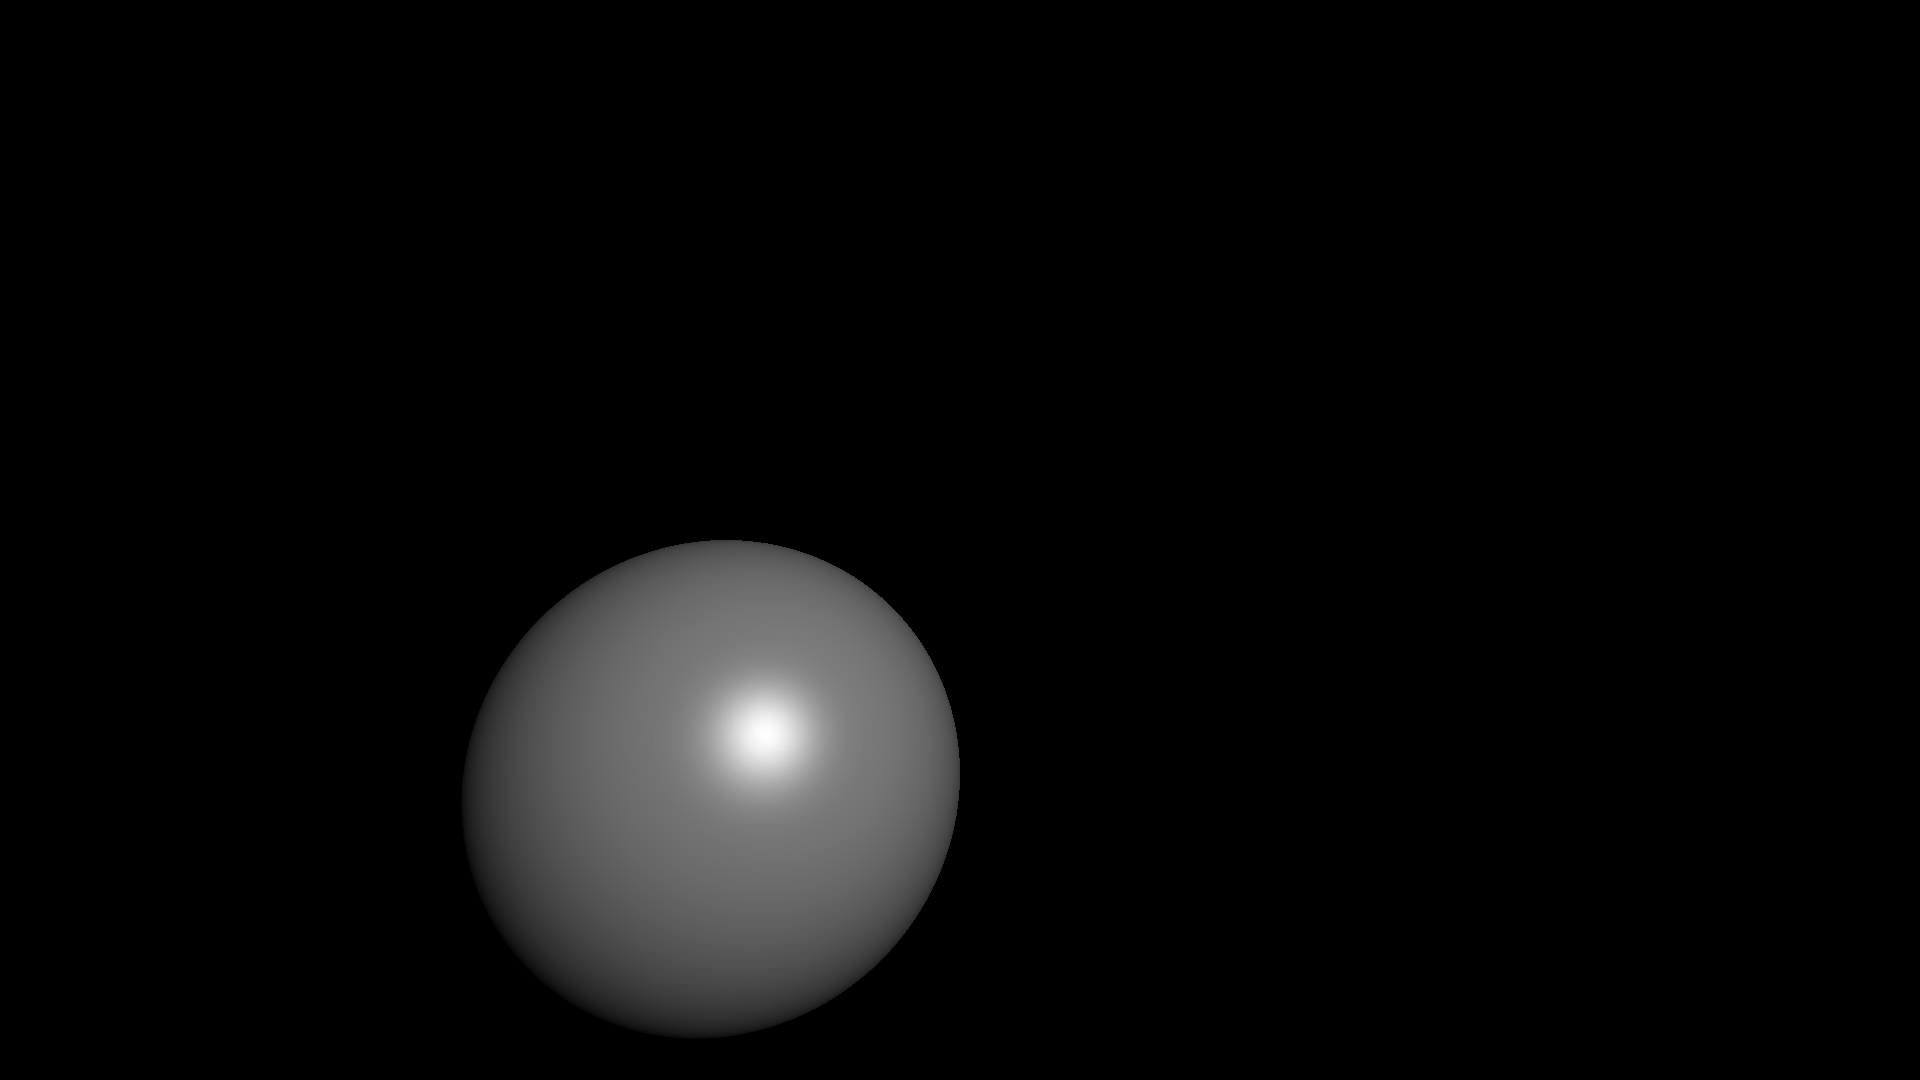
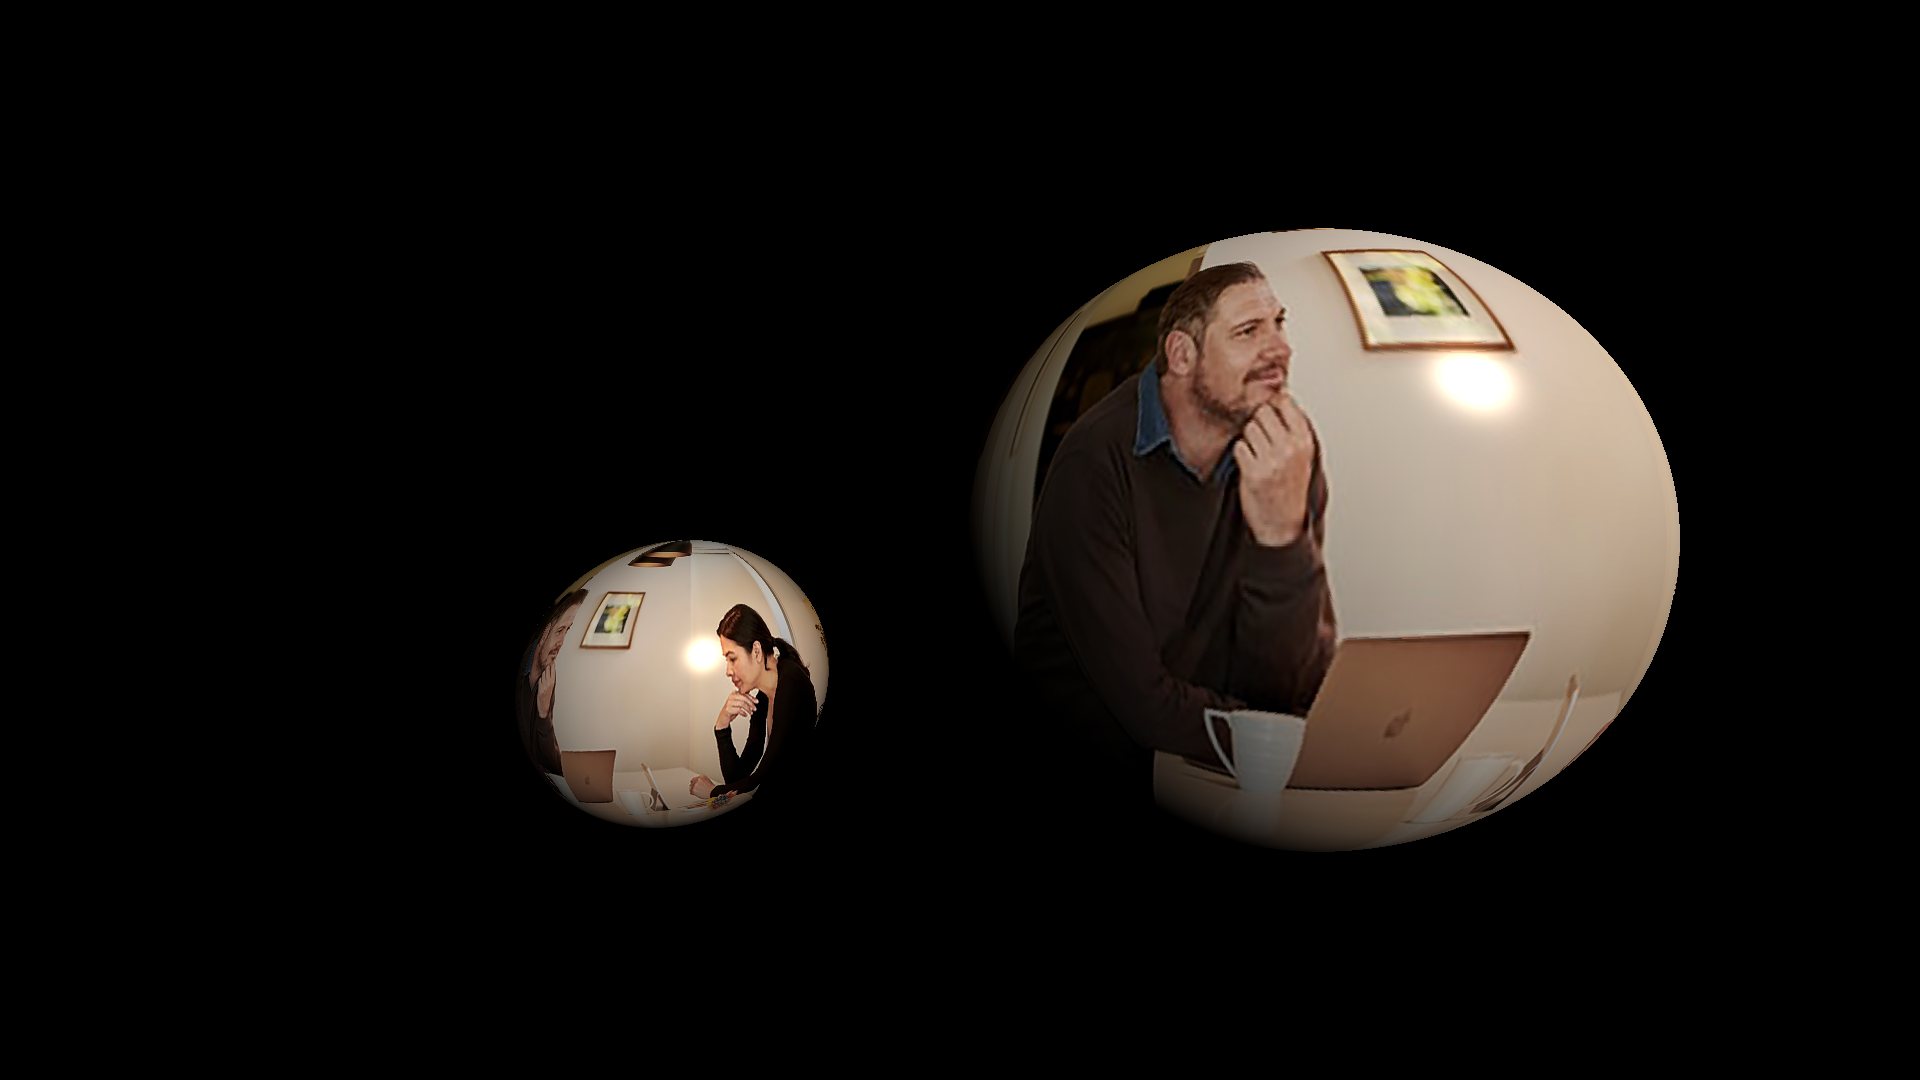
Fix Plane intersection, implement specular highlights and fix uv coordinate calculation

Changed region(s): [[0.5, 0.2139, 0.875, 0.7944], [0.2188, 0.4889, 0.5, 0.9778]]

diff --git a/Backend/src/Scene.cs b/Backend/src/Scene.cs
@@ -15,10 +15,17 @@ namespace LEA_2021
 {
     using Vec3 = Vector3;
     using Point3 = Vector3;
+    using Point2 = Vector2;
 
 
     public class Scene : INotifyPropertyChanged
     {
+        #region Fields
+
+        Bitmap background = new Bitmap(Bitmap.FromFile("/home/jonas/RiderProjects/LEA_2021/Backend/scenes/bg.png"));
+
+        #endregion
+
         #region Properties
 
         public string Name { get; set; }
@@ -136,7 +143,7 @@ namespace LEA_2021
                                                         obj["Properties"]["Orientation"][2]
                                                        ),
                                                (int) obj["Properties"]["Width"],
-                                               (int) obj["Properties"]["Height"]
+                                               (int) obj["Properties"]["Length"]
                                               );
 
                         break;
@@ -240,7 +247,7 @@ namespace LEA_2021
 
         private Vec3 Refract(Vec3 direction, Vec3 surfaceNormal)
         {
-            return Vec3.Zero;
+            throw new NotImplementedException();
         }
 
 
@@ -254,7 +261,7 @@ namespace LEA_2021
             //
             // lightBeam.Brightness *= 1 / lightBeam.Brightness;
 
-            if (currentDepth > 5)
+            if (currentDepth > 0)
             {
                 return currentColor;
             }
@@ -268,13 +275,8 @@ namespace LEA_2021
                 // We hit an object
                 if (t > float.Epsilon)
                 {
-                    // return Color.White;
                     var intersection = lightBeam.Ray.Origin + t * lightBeam.Ray.Direction;
 
-                    // Console.WriteLine(t);
-                    // Console.WriteLine($"{intersection.X},{intersection.Y},{intersection.Z}");
-                    // Console.WriteLine($"{intersection.Z}");
-                    // TODO: Seems working until at least here
                     var surfaceNormal      = Vec3.Normalize(Util.FromAToB(_object.Position, intersection));
                     var brightnessDiffuse  = 0f;
                     var brightnessSpecular = 0f;
@@ -282,102 +284,74 @@ namespace LEA_2021
                     // Calculate direct illumination
                     foreach (var pointLight in PointLights)
                     {
+                        // Lambertian diffuse lighting
                         var objectToLight = Vec3.Normalize(Util.FromAToB(_object.Position, pointLight.Position));
 
-
-                        // Lambertian diffuse lighting
                         brightnessDiffuse +=
                             pointLight.Brightness * Math.Max(0f, Vec3.Dot(objectToLight, surfaceNormal));
-                        // From tinyraytracer:
-                        //  specular_light_intensity += powf(std::max(0.f, -reflect(-light_dir, N)*dir), material.specular_exponent)*lights[i].intensity;
 
                         // Blinn-Phong specular highlights
-                        //(OL + OC) * N
-                        var surfaceToLight  = Util.FromAToB(intersection, pointLight.Position);
-                        var surfaceToCamera = Util.FromAToB(intersection, Camera.Position);
-                        brightnessSpecular += Vec3.Dot(Vec3.Normalize(surfaceToLight + surfaceToCamera), surfaceNormal);
+                        // TODO: Replace with glossiness of surface
+                        var specularExponent = 200f;
+                        var surfaceToLight   = Util.FromAToB(intersection, pointLight.Position);
+                        var surfaceToCamera  = Util.FromAToB(intersection, Camera.Position);
+
+
+                        brightnessSpecular +=
+                            (float) Math.Pow(Math.Max(0f,
+                                                      Vec3.Dot(Vec3.Normalize(surfaceToLight + surfaceToCamera),
+                                                               surfaceNormal
+                                                              )
+                                                     ),
+                                             specularExponent
+                                            );
+
+                        // TODO: Shadows
                     }
 
-                    // Console.WriteLine(brightnessDiffuse);
-
-                    // x and y range from -8.6 to 8.6, z from -15 to -10 (-30, -10 for tinyraytrcer)
-                    // x and y range therefore is less than the spheres diameter, which is wrong, tinyraytracer does it right
-                    // Error Must be in intersection function
                     // TODO: Get Object color instead
-                    var color = Color.Gray;
+                    // TODO: Specular highlights are broken for colors that have 0 values
+                    Point2 uv        = Sphere.GetUvCoordinates(intersection, _object.Position);
+                    var    colorOrig = background.GetPixel((int) (uv.X * 1920), (int) (uv.Y * 1080));
+                    var    color     = new Color();
 
                     // Diffuse lighting
                     color = Color.FromArgb(255,
-                                           (int) Math.Clamp(color.R * brightnessDiffuse, 0, 255),
-                                           (int) Math.Clamp(color.G * brightnessDiffuse, 0, 255),
-                                           (int) Math.Clamp(color.B * brightnessDiffuse, 0, 255)
+                                           (int) Math.Clamp(colorOrig.R * brightnessDiffuse, 0, 255),
+                                           (int) Math.Clamp(colorOrig.G * brightnessDiffuse, 0, 255),
+                                           (int) Math.Clamp(colorOrig.B * brightnessDiffuse, 0, 255)
                                           );
 
-                    // TODO: Replace with glossiness of surface
+
                     // TODO: Cleanup
-                    float specularExponent = 50;
 
                     // Specular lighting
                     color = Color.FromArgb(255,
                                            (int) Math.Clamp(color.R
-                                                          + color.R * Math.Pow(brightnessSpecular, specularExponent),
+                                                          + color.R * brightnessSpecular,
                                                             0,
                                                             255
                                                            ),
                                            (int) Math.Clamp(color.G
-                                                          + color.G * Math.Pow(brightnessSpecular, specularExponent),
+                                                          + color.G * brightnessSpecular,
                                                             0,
                                                             255
                                                            ),
                                            (int) Math.Clamp(color.B
-                                                          + color.B * Math.Pow(brightnessSpecular, specularExponent),
+                                                          + color.B * brightnessSpecular,
                                                             0,
                                                             255
                                                            )
                                           );
 
-                    // Gamma correction
+                    // // Gamma correction
                     // color = Color.FromArgb(255,
                     //               (int)(255f * Math.Pow(color.R/255f, 1f/2.2f)),
                     //               (int)(255f * Math.Pow(color.G/255f, 1f/2.2f)),
                     //               (int)(255f * Math.Pow(color.B/255f, 1f/2.2f))
                     //              );
-                    //
 
                     return color;
-                    // return Color.FromArgb(255,
-                    //                       (int) (255f * surfaceNormal.X),
-                    //                       (int) (255f * surfaceNormal.Y),
-                    //                       (int) (255f * -surfaceNormal.Z)
-                    //                      );
-                    // Console.WriteLine(intersection.Z);
-
-                    // return Color.FromArgb(255,
-                    //                       (int) (125f * (1 + surfaceNormal.X)),
-                    //                       (int) (255f * Math.Abs(0)),
-                    //                       (int) (255f * Math.Abs(0))
-                    //                      );
-                    // // Sphere shape = _object.Shape as Sphere;
-                    // Console.WriteLine(shape.Radius - Util.FromAToB(_object.Position, (Vec3) intersection).Length());
-                    // Console.WriteLine(Util.FromAToB(_object.Position, (Vec3) intersection));
-                    // Console.WriteLine(intersection);
-                    // return Color.FromArgb(255, (int) (Math.Abs(surfaceNormal.X*255f)), (int)(Math.Abs(surfaceNormal.Y * 255f)), (int)(Math.Abs(surfaceNormal.Z * 255f)));
-                    // TODO: Diffuse reflection
-                    // TODO: Specular reflection
-                    // TODO: Shadows
-                    // if (_object.Shape.GetType() == typeof(Plane))
-                    // {
-                    //     int distance = (int) (10 * Vector3.Distance((Vector3) intersection, _object.Position));
-                    //     Image.SetPixel(row, column, Color.FromArgb(100, distance, distance, distance));
-                    // }
-                    // else
-                    //
-                    // {
-                    //     Image.SetPixel(row, column, Color.White);
-                    // }
-
-                    // Point2 uv    = Sphere.GetUVCoordinates((Vec3) intersection, _object.Position);
-                    // Color  pixel = people.GetPixel((int)(uv.X * 1920), (int)(uv.Y * 1080));
                 }
 
                 currentColor = Color.FromArgb(255,

diff --git a/Backend/src/geometry/Sphere.cs b/Backend/src/geometry/Sphere.cs
@@ -38,18 +38,25 @@ namespace LEA_2021
         // Return UV coordinates in the range of [0,1]
         public static Point2 GetUvCoordinates(Point3 surfacePoint, Vec3 centerPosition)
         {
-            // Vec3 surfaceNormal = Vec3.Normalize(centerPosition - surfacePoint);
-            var surfaceNormal = Vec3.Normalize(surfacePoint - centerPosition);
+            var surfaceNormal = Vec3.Normalize(Util.FromAToB(centerPosition, surfacePoint));
 
-            var u = (float) (0.5f + Math.Atan2(-surfaceNormal.Z, surfaceNormal.X) / (2f * Math.PI));
-            var v = (float) (0.5f - Math.Asin(surfaceNormal.Y)                    / Math.PI);
-            // float u = (float) ((Math.Atan(-surfaceNormal.X / -surfaceNormal.Z) +  Math.PI / 2f) / Math.PI);
-            // float v = (float) (Math.Acos(-surfaceNormal.Y) / Math.PI);
 
-            // float u =  (float)((Math.Atan2(-surfaceNormal.Z, surfaceNormal.X)+ Math.PI) / (2f * Math.PI));
-            // float v =  (float)(Math.Acos(-surfaceNormal.Y / surfaceNormal.Length()) / Math.PI);
+            // float u = (float) (0.5f + (Math.Atan2(-surfaceNormal.Z, -surfaceNormal.X)) / (2f * Math.PI));
+            // float v =  (float)(Math.Acos(surfaceNormal.Y / surfaceNormal.Length()) / Math.PI);
 
-            //float u = Util.RescaleToRange((float)Math.Atan2(-surfaceNormal.Z, surfaceNormal.X), (float)-Math.PI, (float)Math.PI, 0f, 1f);
+            // Upper bound of the calculation is too low, magic number for correction
+            float u = 1.79f * (float) ((Math.PI + Math.Atan2(-surfaceNormal.Z, surfaceNormal.X)) / (2 * Math.PI));
+
+            if (u > 1)
+            {
+                throw new
+                    ApplicationException("Scuffed u term calculation caused invalid result, clamp the result or fix the algorithm"
+                                        );
+            }
+
+            // Console.WriteLine(u);
+            float v = (float) (Math.Acos(surfaceNormal.Y) / (Math.PI));
+
             return new Point2(u, v);
         }
 

diff --git a/Backend/src/Program.cs b/Backend/src/Program.cs
@@ -16,10 +16,11 @@ namespace LEA_2021
 
 
             scene.SetBackground(Color.Black);
-            // is z=20 or z=-21 correct for being next to the sphere?
+            // is z=20 or z=-20 correct for being next to the sphere?
+            // TODO: Light intensity values other than 1 are broken
+            // scene.PointLights.Add(new PointLight(new Point3(20, -20, 20), 1f));
             scene.PointLights.Add(new PointLight(new Point3(20, 20, 20), 1f));
-            // scene.PointLights.Add(new PointLight(new Point3(20,20,30), 1f));
-
+            // scene.PointLights.Add(new PointLight(new Point3(40, 0, 20),1f));
             scene.Render();
         }
     }

diff --git a/Backend/src/geometry/Plane.cs b/Backend/src/geometry/Plane.cs
@@ -70,11 +70,11 @@ namespace LEA_2021
                 return -1f;
             }
 
-            var t = Vec3.Dot(center - ray.Origin, Orientation) / denominator;
+            var t = Vec3.Dot(Vec3.Normalize(Util.FromAToB(ray.Origin, center)), Orientation) / denominator;
 
-            if (t > float.Epsilon)
+            if (t < float.Epsilon)
             {
-                // Ray intersects, but is shot in opposite direction
+                // Ray intersects, but is shot away from the sphere
                 return -1f;
             }
 
